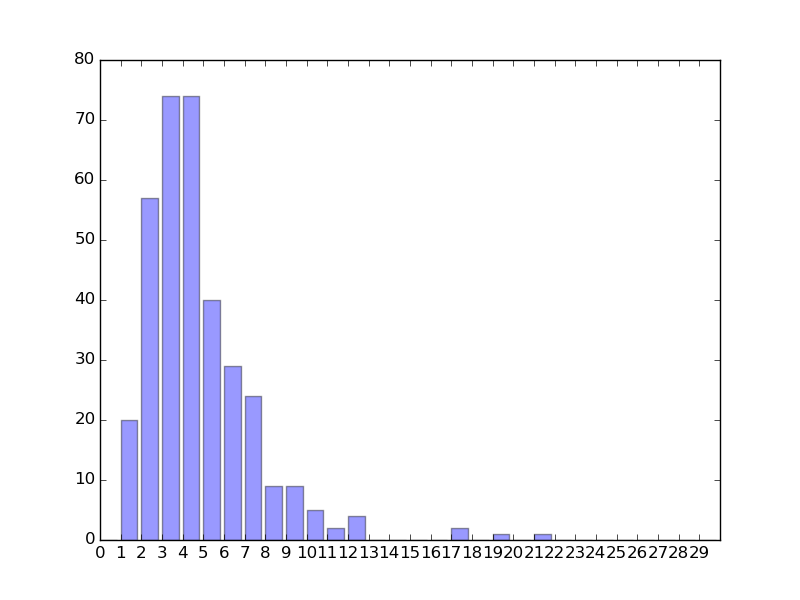
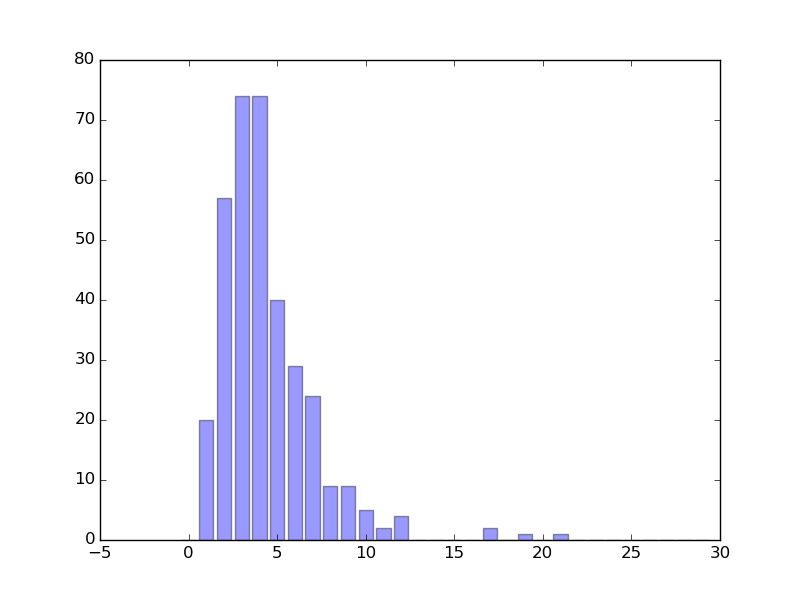
added git ignore

Changed region(s): [[0.125, 0.15, 0.9062, 0.93]]

diff --git a/reddit/wordfrequency.py b/reddit/wordfrequency.py
@@ -12,6 +12,7 @@ class WordFrequencyCounter(object):
         self.top_posts = top_posts
         self.word_count = {}
 
+    # calculates frequency in data collected.
     def get_frequency(self):
 
         for i in range(0, 30):
@@ -30,12 +31,12 @@ class WordFrequencyCounter(object):
 
         print self.word_count
 
-        plt.bar([key for key in self.word_count.keys()], self.word_count.values(), alpha=0.4)
-
-        plt.xticks(self.word_count.keys())
-
+        plt.bar(self.word_count.keys(), self.word_count.values(), alpha=0.4, align='center', label=self.word_count.keys())
+        plt.ylabel('times used')
+        plt.xlabel('letters in word')
         plt.savefig('frequency_piechart')
 
+    # removes characters that are in the string characters to remove and new lines.
     def filter_message(self, post_message):
 
         return ''.join([character for character in post_message.replace('/n', '') if character not in self.characters_to_remove]).split()

diff --git a/reddit/connections.py b/reddit/connections.py
@@ -18,6 +18,7 @@ class Client(object):
         self.access_token = None
         self.top_posts = None
 
+    # logs in, requests comments for the class WordFrequencyCounter
     def get_posts(self):
 
         client_auth = requests.auth.HTTPBasicAuth(config['reddit_id'], config['reddit_secret'])
@@ -34,6 +35,7 @@ class Client(object):
 
         return WordFrequencyCounter(self.top_posts)
 
+    # retrieves the bodies of the comments in a subreddit.
     def request_comments(self):
 
         headers = {'User-Agent': config['reddit_boot'],
